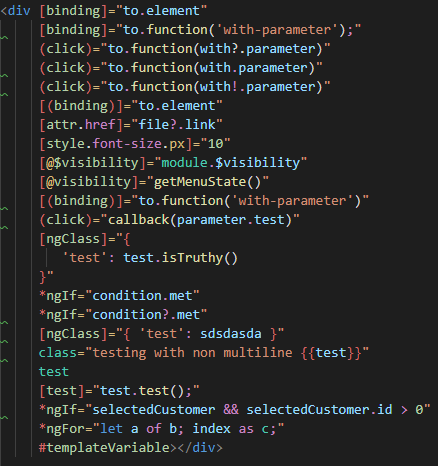
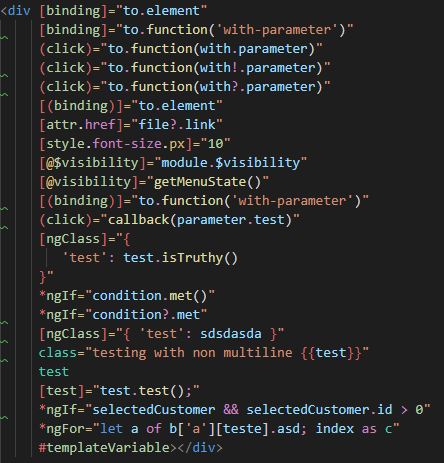
Updated images

diff --git a/test/test.component.html b/test/test.component.html
@@ -172,8 +172,8 @@ ANGULAR DIRECTIVES
 <div [binding]="to.element"
      [binding]="to.function('with-parameter')"
      (click)="to.function(with.parameter)"
-     (click)="to.function(with.parameter)"
-     (click)="to.function(with.parameter)"
+     (click)="to.function(with!.parameter)"
+     (click)="to.function(with?.parameter)"
      [(binding)]="to.element"
      [attr.href]="file?.link"
      [style.font-size.px]="10"
